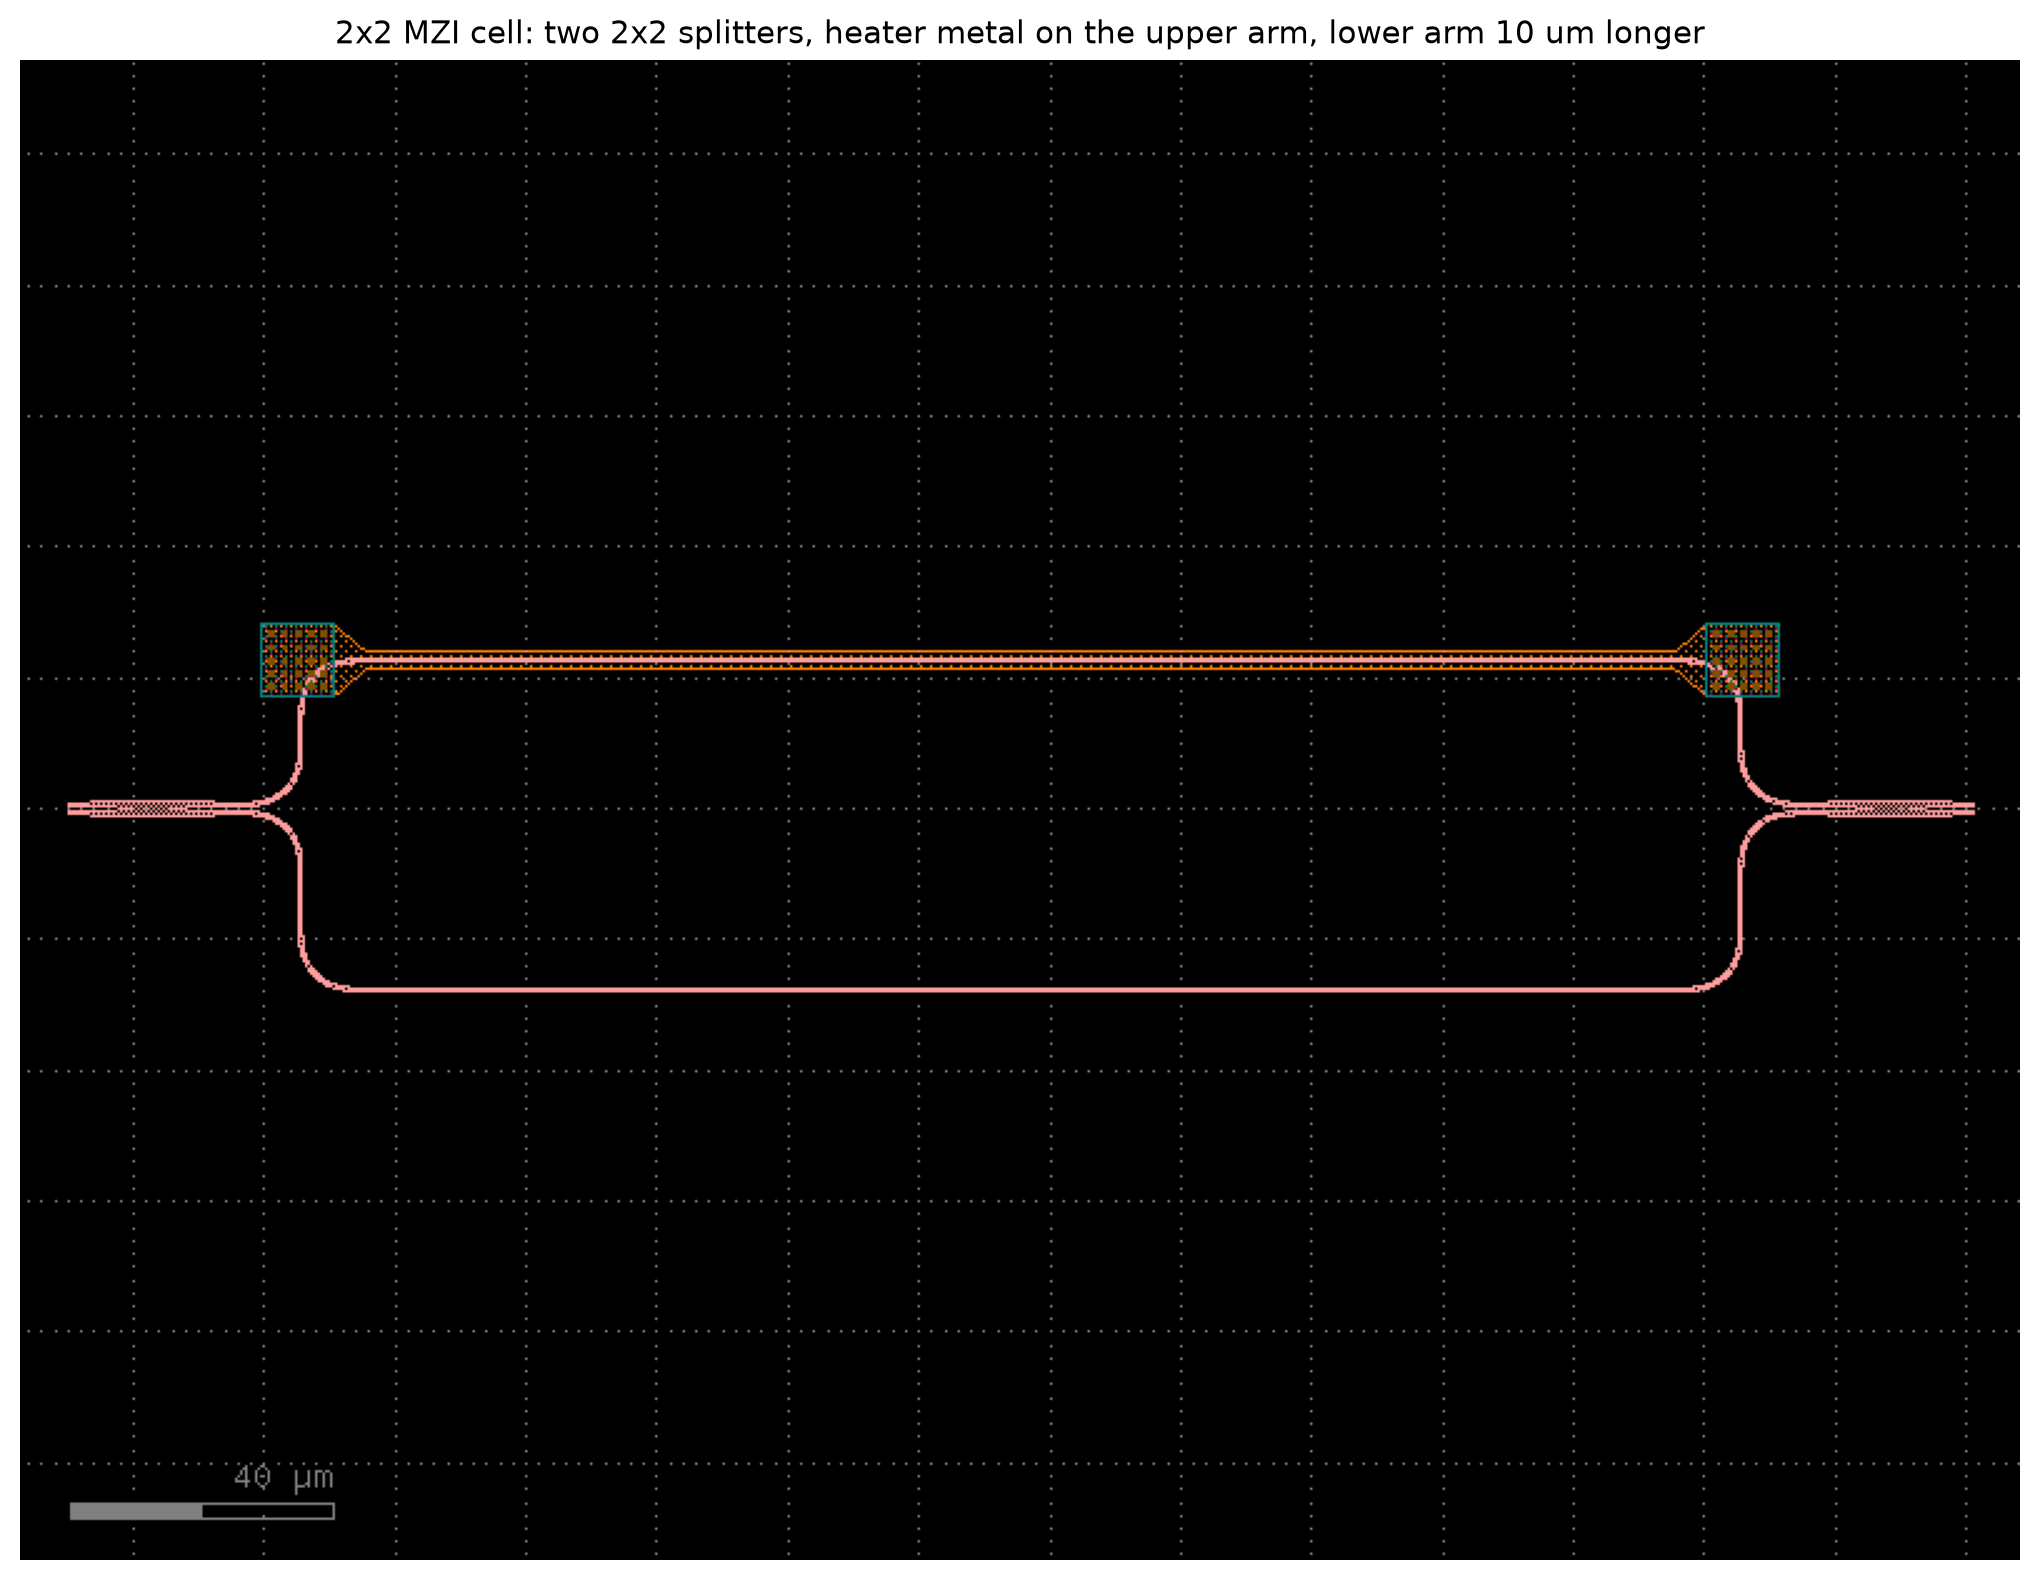
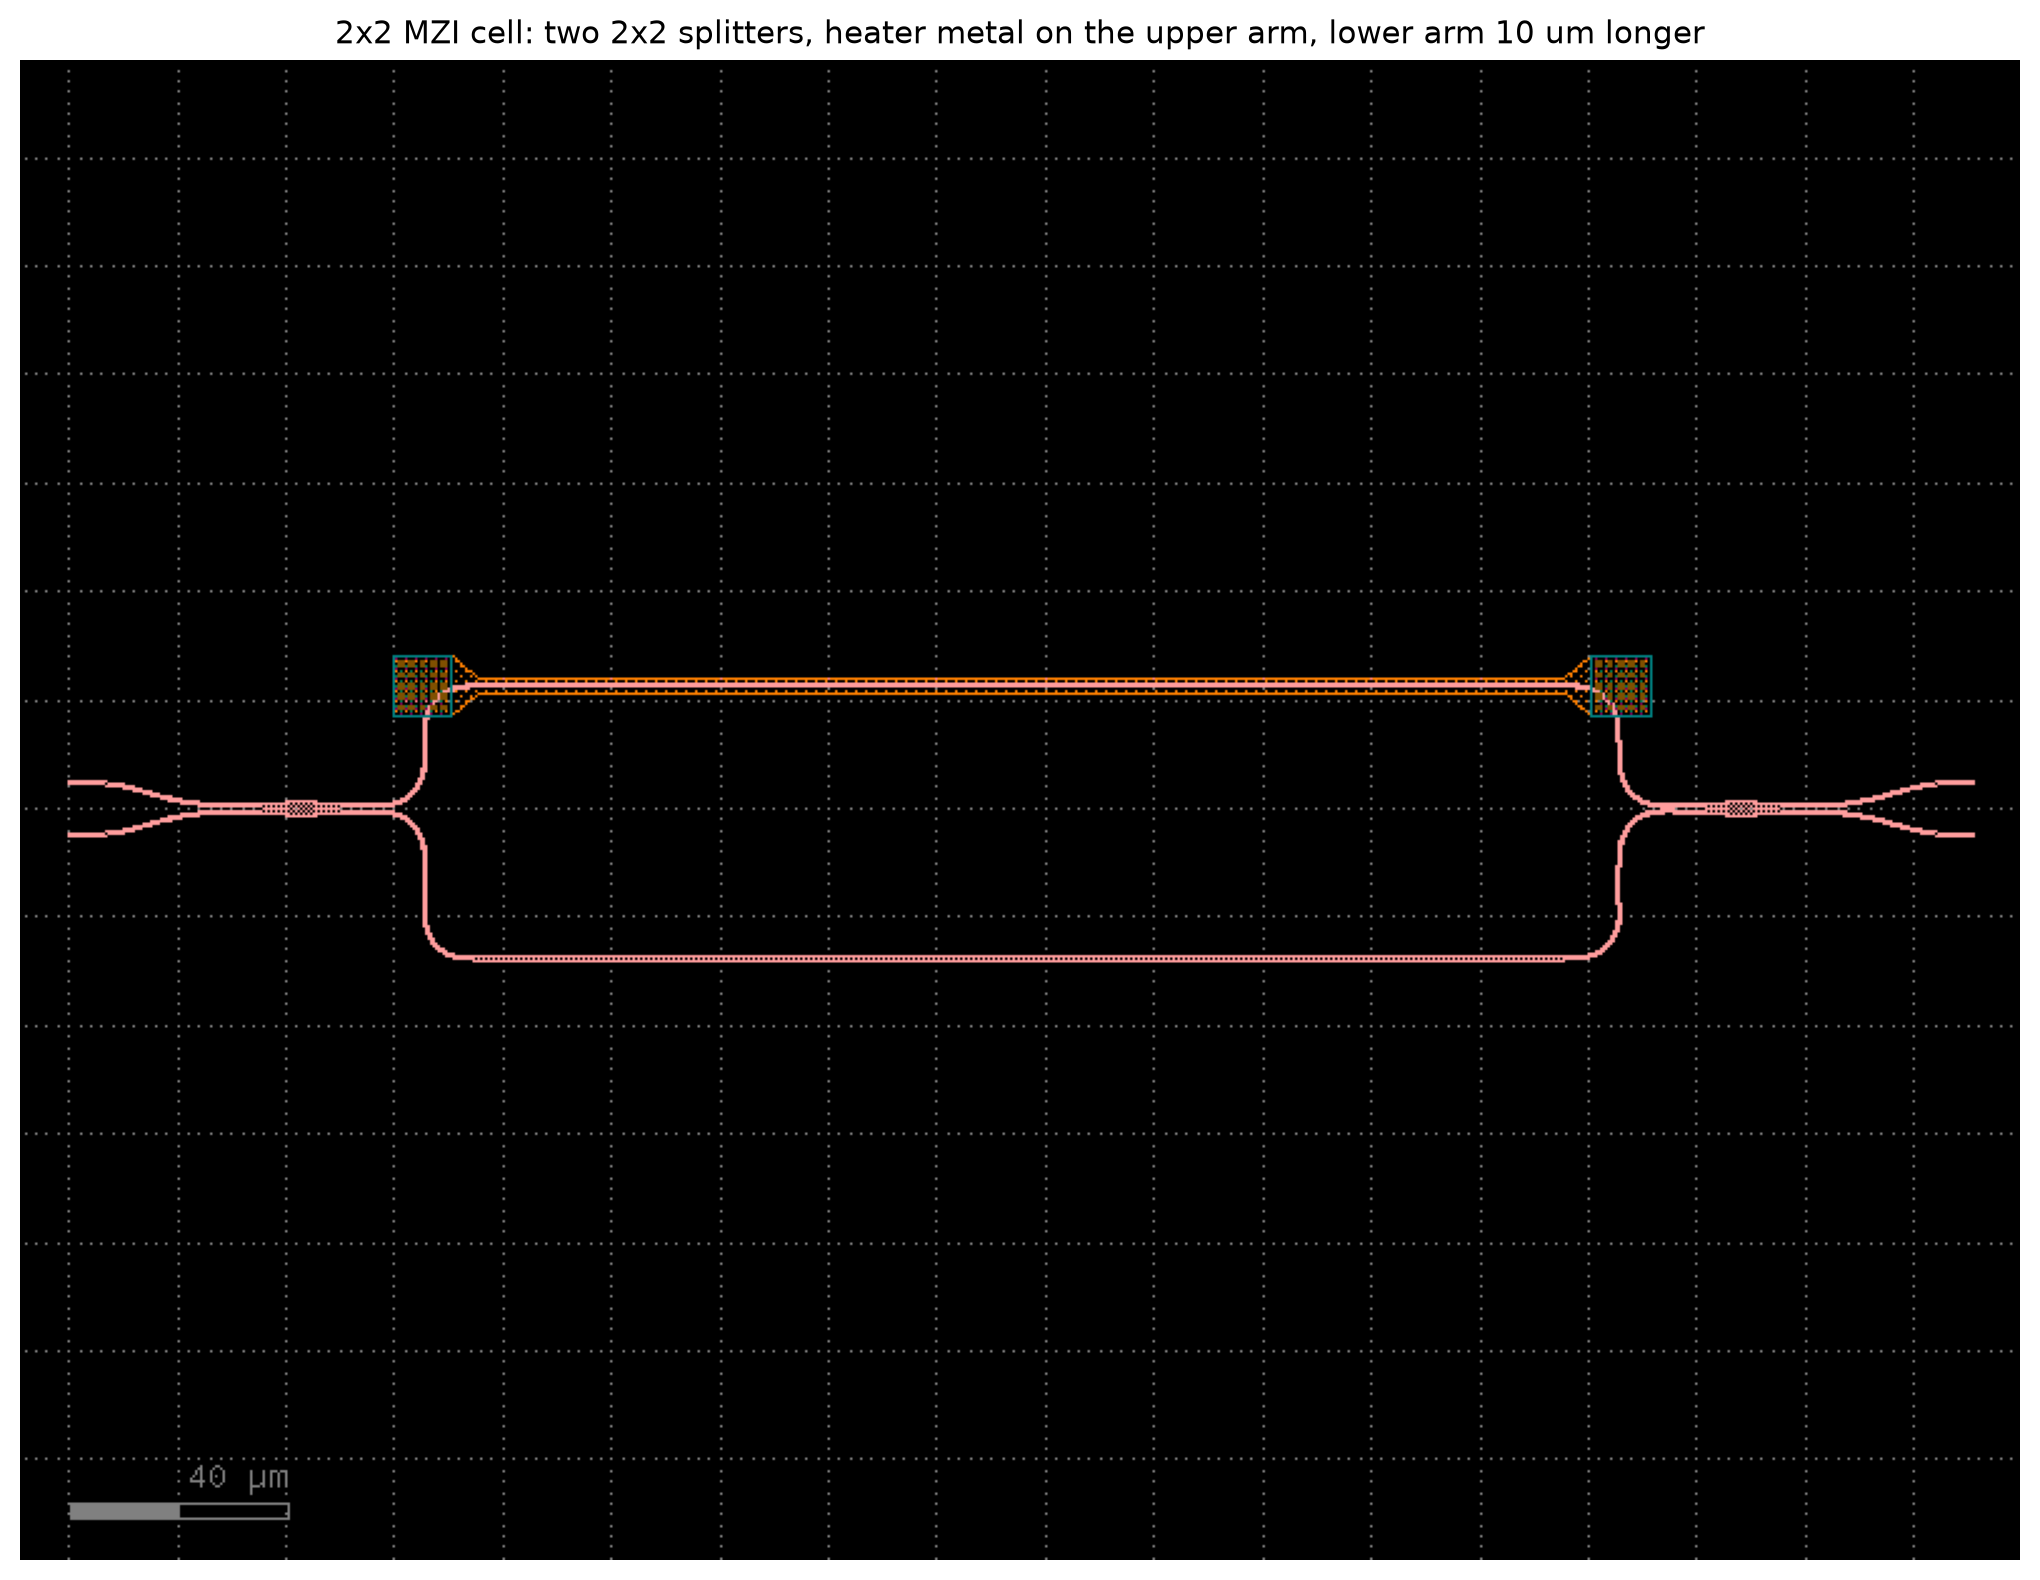
Test die v0.6: loop-backs routed directly (no extra U-turn in the cladding window, no second coupler on ring 4), switch ports fanned out to 10 um before termination, layout check flags cells closer than 2 um

Changed region(s): [[0.0309, 0.3722, 0.9882, 0.6513], [0.0926, 0.9304, 0.1853, 0.9614]]

diff --git a/chip.py b/chip.py
@@ -65,6 +65,7 @@ RING_STEP = 0.024            # radius step between the four rings, um: spaces th
                              # (v0.4 used 50 nm: rings 1/3 and 2/4 landed ~0.5 nm apart)
 RING_GAP = 0.30              # coupling gap, um: 200 nm (v0.4) over-couples, ~1 dB notches
 MZI_DL = 10.0                # arm length difference, um: lets a passive sweep grade the cell
+RING_CLEAR = 20.0            # straight after the last ring before the bus turns up, um
 TERM_LEN = 20.0              # termination taper on unused ports, um
 CLAD_OPEN = (60, 0)          # own layer: top-cladding opening over the tapers
                              # (the generic PDK has no such layer)
@@ -137,16 +138,22 @@ def place_coupler(c: gf.Component, ch: int, tip_w: float = TIP_W):
     return t
 
 
-def loop_back(c: gf.Component, from_port, to_taper_port) -> None:
-    """Turn an east-facing output around and bring it to the west edge.
+def loop_back(c: gf.Component, from_port, to_taper_port, clear: float = 0.0) -> None:
+    """Bring an east-facing output back to an east-facing taper end further up.
 
-    A 180-degree Euler bend attaches directly to the output, then the
-    router closes the (now west-facing to east-facing) gap.
+    One route does it: out to the east, a 90-degree bend up, the climb, a
+    90-degree bend west and the run back to the taper. `clear` adds a straight
+    first, so the turn keeps its distance from the device the output leaves.
+    Up to v0.5 a 180-degree bend sat on the output and the router then had to
+    turn the light round a second time: an extra U-turn that reached back into
+    the cladding window behind the tapers and, after the ring bank, ran 346 nm
+    past ring 4, a second coupler nobody designed.
     """
-    b = c << gf.components.bend_euler(angle=180)
-    b.connect("o1", from_port)
-    gf.routing.route_single(c, b.ports["o2"], to_taper_port,
-                            cross_section="strip")
+    if clear > 0:
+        s = c << gf.components.straight(length=clear, cross_section="strip")
+        s.connect("o1", from_port)
+        from_port = s.ports["o2"]
+    gf.routing.route_single(c, from_port, to_taper_port, cross_section="strip")
 
 
 def terminate(c: gf.Component, port) -> None:
@@ -156,10 +163,30 @@ def terminate(c: gf.Component, port) -> None:
     t.connect("o1", port)
 
 
+FAN_PITCH = 10.0             # switch port pitch after the fan-out, um
+FAN_LEN = 30.0               # length of each fan-out S-bend, um
+
+
 @gf.cell
 def switch_cell() -> gf.Component:
-    """The 2x2 thermo-optic MZI as placed on ch9-10, with its arm difference."""
-    return gf.components.mzi2x2_2x2_phase_shifter(delta_length=MZI_DL)
+    """The 2x2 thermo-optic MZI as placed on ch9-10, with its arm difference,
+    and S-bends that spread its ports from the MMI's 1.24 um to FAN_PITCH.
+    Without them a terminator or route attached to one port runs 0.75 um from
+    the next one for its whole length: an accidental coupler (v0.5)."""
+    c = gf.Component()
+    m = c << gf.components.mzi2x2_2x2_phase_shifter(delta_length=MZI_DL)
+    for pair in (("o1", "o2"), ("o4", "o3")):
+        ps = sorted((m.ports[n] for n in pair), key=lambda q: q.dcenter[1])
+        dy = (FAN_PITCH - (ps[1].dcenter[1] - ps[0].dcenter[1])) / 2
+        for q, outward in zip(ps, (-1, 1)):          # lower port down, upper port up
+            west = abs(q.orientation - 180) < 1        # bend_s mirrors its offset on west-facing ports
+            s = c << gf.components.bend_s(size=(FAN_LEN, dy * outward * (-1 if west else 1)),
+                                          cross_section="strip")
+            s.connect("o1", q)
+            assert (s.ports["o2"].dcenter[1] - q.dcenter[1]) * outward > 0
+            c.add_port(name=q.name, port=s.ports["o2"])
+    c.add_ports([p for p in m.ports if p.port_type != "optical"])
+    return c
 
 
 def label(c: gf.Component, text: str, x: float, y: float,
@@ -235,7 +262,7 @@ def cpo_pic() -> gf.Component:
         gf.routing.route_single(c, prev, ring.ports["o1"],
                                 cross_section="strip")
         prev = ring.ports["o2"]
-    loop_back(c, prev, t_out.ports["o2"])
+    loop_back(c, prev, t_out.ports["o2"], clear=RING_CLEAR)
     label(c, "RING BANK 4", 3600, ch_y(7) + 70)
 
     # --- ch9-10: 2x2 thermo-optic MZI cell. Heater metal is drawn but has no
@@ -245,7 +272,8 @@ def cpo_pic() -> gf.Component:
     t_in = place_coupler(c, 9)
     t_out = place_coupler(c, 10)
     sw = c << switch_cell()
-    sw.move((X_DUT + 200, ch_y(9) + 40))
+    sw.move((X_DUT + 200, 0))
+    sw.dmovey(ch_y(9) - sw.ports["o1"].dcenter[1])   # input level with channel 9: a straight feed, no S-jog
     gf.routing.route_single(c, t_in.ports["o2"], sw.ports["o1"],
                             cross_section="strip")
     # the bar port runs straight past the cross port's terminator (the two
@@ -263,7 +291,7 @@ def cpo_pic() -> gf.Component:
         f.move((x, y))
 
     # die labels
-    label(c, "NANODEVO CPO-PIC v0.5", 300, 260, size=110)
+    label(c, "NANODEVO CPO-PIC v0.6", 300, 260, size=110)
     label(c, "WEST EDGE: 16 TAPERS, 250UM PITCH, TO IOX GLASS (MPO-16)",
           300, 120, size=60)
     return c

diff --git a/check_layout.py b/check_layout.py
@@ -5,8 +5,14 @@ waveguide layer. Run after every build; exits non-zero if anything is found.
 Two rules, both on layer 1/0 (silicon):
   OVERLAP   two separate shapes share area (a waveguide drawn across another one)
   MIN GAP   two separate shapes that do not touch come closer than MIN_GAP
-            (the ring-to-bus coupling gap, 200 nm by design, is the smallest
+            (the ring-to-bus coupling gap, 300 nm by design, is the smallest
             intended spacing on the die; anything below MIN_GAP is a mistake)
+  NEAR      shapes from two DIFFERENT placed cells (a ring and a route, two
+            routes) that do not touch come closer than NEAR_GAP: light would
+            couple between them. Designed couplers (ring to bus, the MMI
+            outputs) sit inside one cell and are not affected. Added in v0.6
+            after the ring-bank return passed ring 4 at 346 nm: wider than
+            MIN GAP, so the first two rules missed a second coupler.
 Shapes that touch along an edge (port-to-port joins) are allowed.
 
 Usage:  python check_layout.py [build/cpo_pic.gds]
@@ -17,6 +23,7 @@ import gdstk
 import numpy as np
 
 MIN_GAP = 0.15      # um
+NEAR_GAP = 2.0      # um, between different placed cells
 LAYER = (1, 0)
 
 def main(path):
@@ -24,20 +31,31 @@ def main(path):
     def bbox_area(c):
         b = c.bounding_box(); return 0.0 if b is None else (b[1][0] - b[0][0]) * (b[1][1] - b[0][1])
     die = max((c for c in lib.cells if c.name != "$$$CONTEXT_INFO$$$"), key=bbox_area)   # the die: largest footprint
-    polys = die.get_polygons(layer=LAYER[0], datatype=LAYER[1])
+    polys, owner = [], []
+    for p in die.polygons:
+        if (p.layer, p.datatype) == LAYER:
+            polys.append(p); owner.append(-1)
+    for k, ref in enumerate(die.references):
+        for p in ref.get_polygons(layer=LAYER[0], datatype=LAYER[1]):
+            polys.append(p); owner.append(k)
     boxes = np.array([[*p.bounding_box()[0], *p.bounding_box()[1]] for p in polys])
-    overlaps, close = [], []
+    overlaps, close, near = [], [], []
+    R = max(MIN_GAP, NEAR_GAP)
     for i in range(len(polys)):
         bi = boxes[i]
-        cand = np.where(~((boxes[:, 0] > bi[2] + MIN_GAP) | (boxes[:, 2] < bi[0] - MIN_GAP) |
-                          (boxes[:, 1] > bi[3] + MIN_GAP) | (boxes[:, 3] < bi[1] - MIN_GAP)))[0]
+        cand = np.where(~((boxes[:, 0] > bi[2] + R) | (boxes[:, 2] < bi[0] - R) |
+                          (boxes[:, 1] > bi[3] + R) | (boxes[:, 3] < bi[1] - R)))[0]
         for j in cand[cand > i]:
             a = sum(q.area() for q in gdstk.boolean(polys[i], polys[j], "and"))
             if a > 1e-3:
                 overlaps.append((a, i, j)); continue
             touching = sum(q.area() for q in gdstk.boolean(polys[i], gdstk.offset(polys[j], 0.002), "and")) > 1e-9
-            if not touching and sum(q.area() for q in gdstk.boolean(polys[i], gdstk.offset(polys[j], MIN_GAP), "and")) > 1e-6:
+            if touching:
+                continue
+            if sum(q.area() for q in gdstk.boolean(polys[i], gdstk.offset(polys[j], MIN_GAP), "and")) > 1e-6:
                 close.append((i, j))
+            elif owner[i] != owner[j] and sum(q.area() for q in gdstk.boolean(polys[i], gdstk.offset(polys[j], NEAR_GAP), "and")) > 1e-6:
+                near.append((i, j))
     def where(i, j):
         bi, bj = boxes[i], boxes[j]
         return f"x {max(bi[0], bj[0]):.1f}..{min(bi[2], bj[2]):.1f}  y {max(bi[1], bj[1]):.1f}..{min(bi[3], bj[3]):.1f} um"
@@ -46,8 +64,11 @@ def main(path):
         print(f"  OVERLAP {a:9.3f} um^2 at {where(i, j)}")
     for i, j in close:
         print(f"  MIN GAP < {MIN_GAP*1000:.0f} nm at {where(i, j)}")
-    print(f"{len(overlaps)} overlaps, {len(close)} min-gap violations -> {'FAIL' if overlaps or close else 'PASS'}")
-    return 1 if overlaps or close else 0
+    for i, j in near:
+        print(f"  NEAR < {NEAR_GAP:.1f} um between cells at {where(i, j)}")
+    bad = overlaps or close or near
+    print(f"{len(overlaps)} overlaps, {len(close)} min-gap, {len(near)} near-between-cells -> {'FAIL' if bad else 'PASS'}")
+    return 1 if bad else 0
 
 if __name__ == "__main__":
     sys.exit(main(pathlib.Path(sys.argv[1] if len(sys.argv) > 1 else "build/cpo_pic.gds")))

diff --git a/README.md b/README.md
@@ -77,7 +77,9 @@ heater. Heating one arm shifts its phase and steers the light between
 the two outputs: the routing element of an optical engine. On this die
 the heater has no pads; the lower arm is 10 um longer, so the outputs
 swing with wavelength and a passive sweep of the looped-back bar port
-grades the cell. The unused input and the cross output end in tapers.
+grades the cell. S-bends spread the four ports from 1.24 um to 10 um
+apart before anything is attached; the unused input and the cross output
+then end in tapers.
 
 ![switch](docs/cell_switch.png)
 
@@ -111,13 +113,16 @@ python -m venv .venv && .venv/bin/pip install gdsfactory
 After every build, run the layout check:
 
 ```bash
-.venv/bin/python check_layout.py   # PASS/FAIL: overlapping shapes, spacings under 150 nm
+.venv/bin/python check_layout.py   # PASS/FAIL: overlaps, gaps under 150 nm, cells closer than 2 um
 ```
 
 It flags any two separate shapes on the silicon layer that share area
 (a waveguide routed across another one) or come closer than 150 nm
 without touching (the smallest intended spacing on the die is the
-200 nm ring-to-bus gap). Port-to-port joins are allowed. It is a sanity
+300 nm ring-to-bus gap). A third rule flags shapes from two different
+placed cells (a ring and a route, two routes) that come closer than 2 um:
+light would couple between them. Designed couplers sit inside one cell
+and are not affected. Port-to-port joins are allowed. It is a sanity
 check, not a foundry DRC.
 
 Layout is generated with [gdsfactory](https://gdsfactory.github.io/gdsfactory/)
@@ -134,6 +139,20 @@ cross-section swap.
 - Retarget to a SiN platform (closer index match to IOX glass)
 
 ## Revision notes
+
+- **v0.6 (2026-11-07).** Loop-backs routed directly. Up to v0.5 each
+  loop-back put a 180-degree bend on the output and the router then
+  turned the light round a second time. On the reference and tip-split
+  channels that extra U-turn reached 10 um back into the cladding window
+  behind the tapers; after the ring bank it ran 346 nm past ring 4, a
+  second coupler on that ring nobody designed. The switch's terminators
+  ran 0.75 um beside the neighbouring port for their whole length; its
+  ports now fan out to 10 um first, and the cell sits with its input
+  level with channel 9, so the feed runs straight (it used to jog 35 um
+  sideways right after the window). `check_layout.py` missed all of this
+  because nothing came under 150 nm; it now also flags shapes from
+  different cells closer than 2 um. Found by reviewing the layout in
+  KLayout.
 
 - **v0.5 (2026-11-07).** Ring bank: radius step 50 nm -> 24 nm and gap
   200 -> 300 nm. With 50 nm, rings 1 and 3 (and 2 and 4) resonated within
